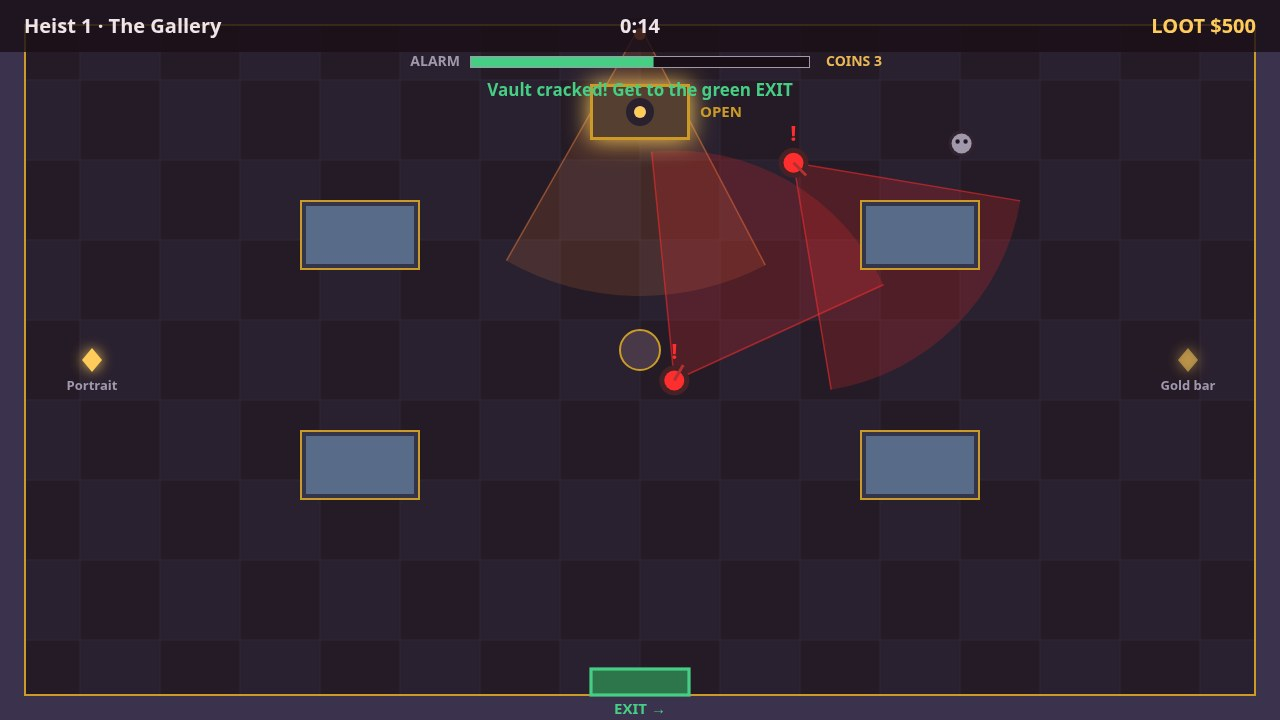
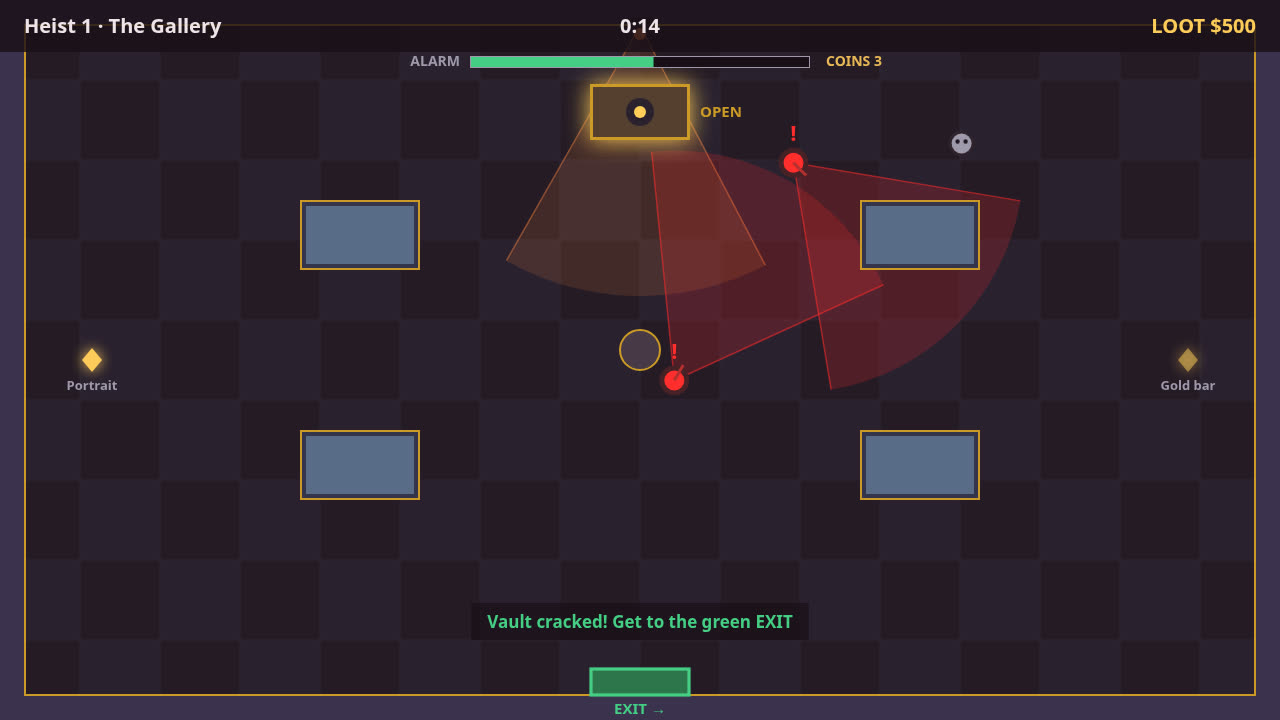
Review: objective line moves off the vault to a pill above the exit
The HUD objective ('Crack the vault...' / 'Vault cracked!...') was drawn
at y=96, centred on the vault, so its glyphs crossed the vault's gold
frame in the cover and play frames — hiding the very target it names.
It now sits in the open floor just above the exit, on a dark pill, clear
of the vault, the alarm bar and the thief standing at the exit.
Screenshots re-taken from the same staged scenes.

diff --git a/game/src/render.js b/game/src/render.js
@@ -184,7 +184,7 @@ export function createRenderer(canvas) {
       context.arc(cx, cy, 24, -Math.PI / 2, -Math.PI / 2 + state.vaultProgress * Math.PI * 2);
       context.stroke();
     }
-    // The label sits beside the vault, never over the objective line above it.
+    // The label sits beside the vault, clear of the vault itself.
     text(state.vaultOpen ? 'OPEN' : 'VAULT', vault.x + vault.w + 10, cy + 5, 15, PALETTE.vaultDoor, 'left');
   }
 
@@ -325,10 +325,30 @@ export function createRenderer(canvas) {
     context.lineWidth = 1;
     context.strokeRect(barX + 0.5, barY + 0.5, barW - 1, barH - 1);
     text(coinsLabel(state.coins), barX + barW + 16, barY + 10, 14, PALETTE.coin, 'left');
+    // The objective line sits in the open floor just above the exit, on a
+    // dark pill so it reads over the tiles: at the top it crossed the
+    // vault's gold frame, hiding the very target it names.
     const objective = !state.vaultOpen
       ? 'Crack the vault — stand beside it'
       : state.exitActive ? 'Vault cracked! Get to the green EXIT' : '';
-    if (objective) text(objective, FIELD.width / 2, 96, 17, state.exitActive ? PALETTE.exitGlow : PALETTE.vaultGlow, 'center');
+    if (objective) {
+      const objectiveSize = 17;
+      const objectiveColor = state.exitActive ? PALETTE.exitGlow : PALETTE.vaultGlow;
+      const objectiveY = FIELD.height - 92;
+      if (!fonts.has(objectiveSize)) fonts.set(objectiveSize, `bold ${objectiveSize}px ${FONT}`);
+      context.font = fonts.get(objectiveSize);
+      const objectiveWidth = context.measureText(objective).width;
+      const padX = 16;
+      const padY = 8;
+      context.fillStyle = 'rgba(11, 13, 22, 0.72)';
+      context.fillRect(
+        FIELD.width / 2 - objectiveWidth / 2 - padX,
+        objectiveY - objectiveSize - padY,
+        objectiveWidth + padX * 2,
+        objectiveSize + padY * 2 + 4,
+      );
+      text(objective, FIELD.width / 2, objectiveY, objectiveSize, objectiveColor, 'center');
+    }
     // A red wash creeps in as the alarm climbs.
     if (state.alarm > 25) {
       context.fillStyle = `rgba(255, 46, 46, ${((state.alarm - 25) / 75) * 0.16})`;
